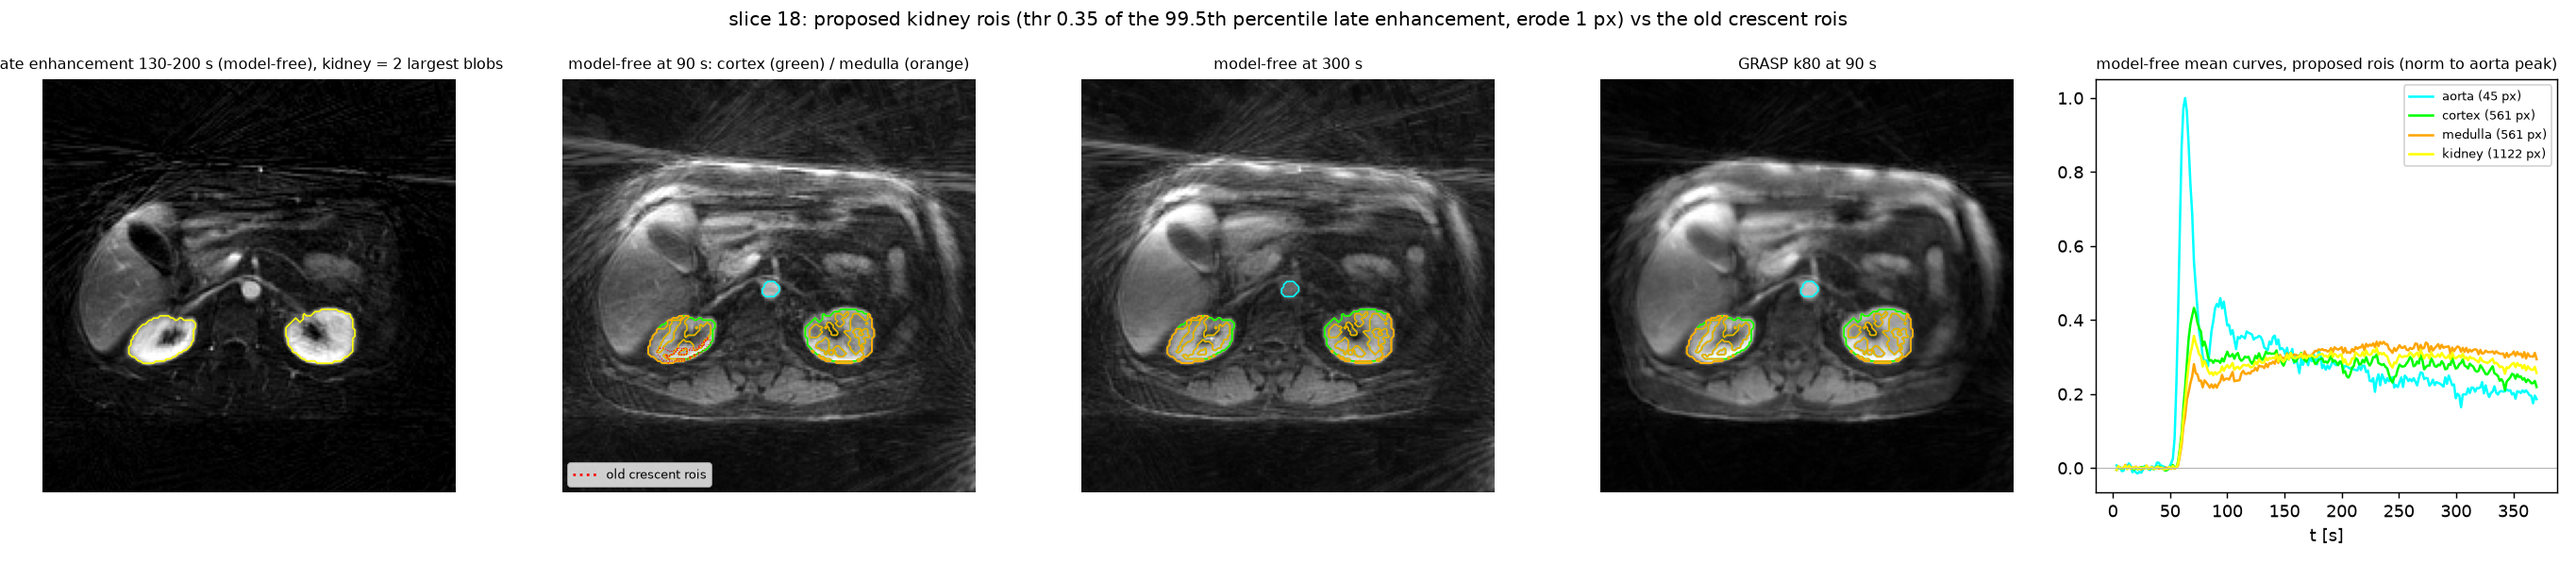
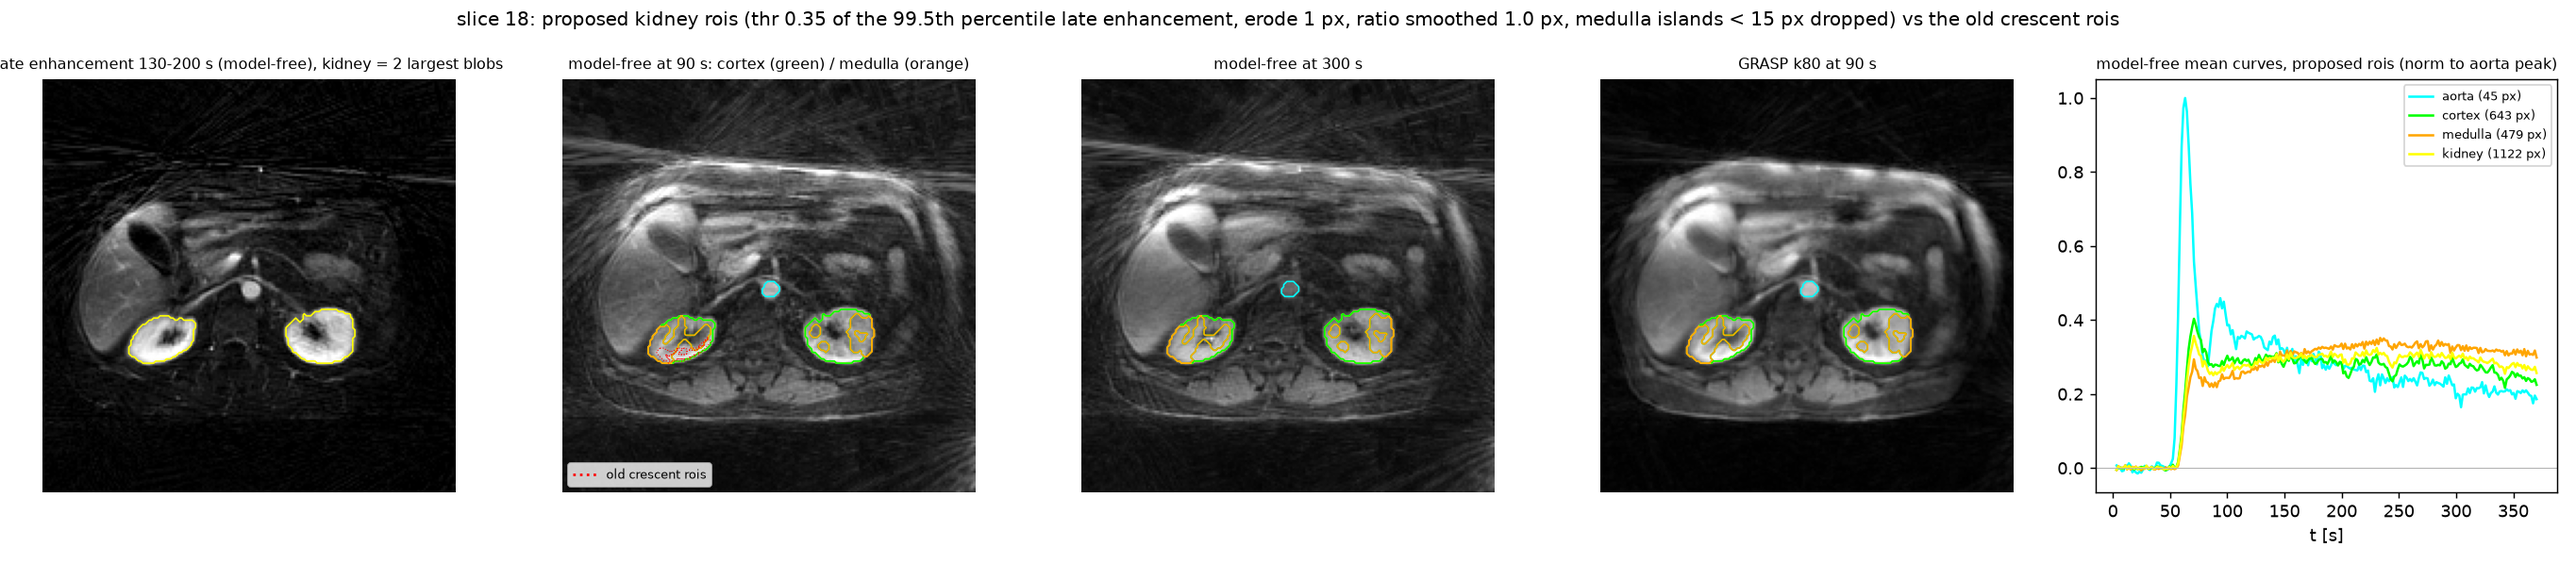
agent 2026-09-15 14:09 worker01.cluster: 9 files

diff --git a/jobs/agent/status.md b/jobs/agent/status.md
@@ -1,6 +1,6 @@
 # helios agent
 
-updated 2026-09-15 14:07:21 on worker01.cluster, job 3294737, cycle 89
+updated 2026-09-15 14:09:26 on worker01.cluster, job 3294737, cycle 90
 
 ## active
 
@@ -8,13 +8,12 @@ updated 2026-09-15 14:07:21 on worker01.cluster, job 3294737, cycle 89
 |---|---|---|
 | 3296978 | 031_amp_track | 1 PENDING QOSMaxGRESPerUser, 2 RUNNING None |
 | 3296988 | 032_amp_track_atomscale | 1 PENDING QOSMaxGRESPerUser |
-| 3297088 | 035_roi_propose_v2 | 1 PENDING None |
 
 ## done (last 20)
 
 | name | state |
 |---|---|
-| 035_roi_propose_v2 | 1 PENDING None |
+| 035_roi_propose_v2 | 1 COMPLETED 00:00:13 |
 | 034_roi_propose | 1 COMPLETED 00:00:16 |
 | 032_amp_track_atomscale | 1 PENDING QOSMaxGRESPerUser |
 | 033_roi_check | 1 COMPLETED 00:00:20 |

diff --git a/results/realdata_nik_vs_cs_figures/rois_proposed.md b/results/realdata_nik_vs_cs_figures/rois_proposed.md
@@ -2,6 +2,6 @@
 
 | slice | kidney px | cortex px | medulla px | blobs | old cortex / medulla px | ttp cortex / medulla (s) | plateau/peak cortex / medulla |
 |---|---|---|---|---|---|---|---|
-| 21 | 894 | 447 | 447 | 2 | 56 / 56 | 71 / 246 | 0.60 / 0.90 |
-| 18 | 1122 | 561 | 561 | 2 | 56 / 57 | 71 / 231 | 0.61 / 0.93 |
-| 19 | 930 | 465 | 465 | 2 | 66 / 66 | 71 / 231 | 0.60 / 0.92 |
+| 21 | 894 | 473 | 421 | 2 | 56 / 56 | 71 / 246 | 0.62 / 0.89 |
+| 18 | 1122 | 643 | 479 | 2 | 56 / 57 | 71 / 234 | 0.66 / 0.92 |
+| 19 | 930 | 496 | 434 | 2 | 66 / 66 | 71 / 260 | 0.63 / 0.92 |
